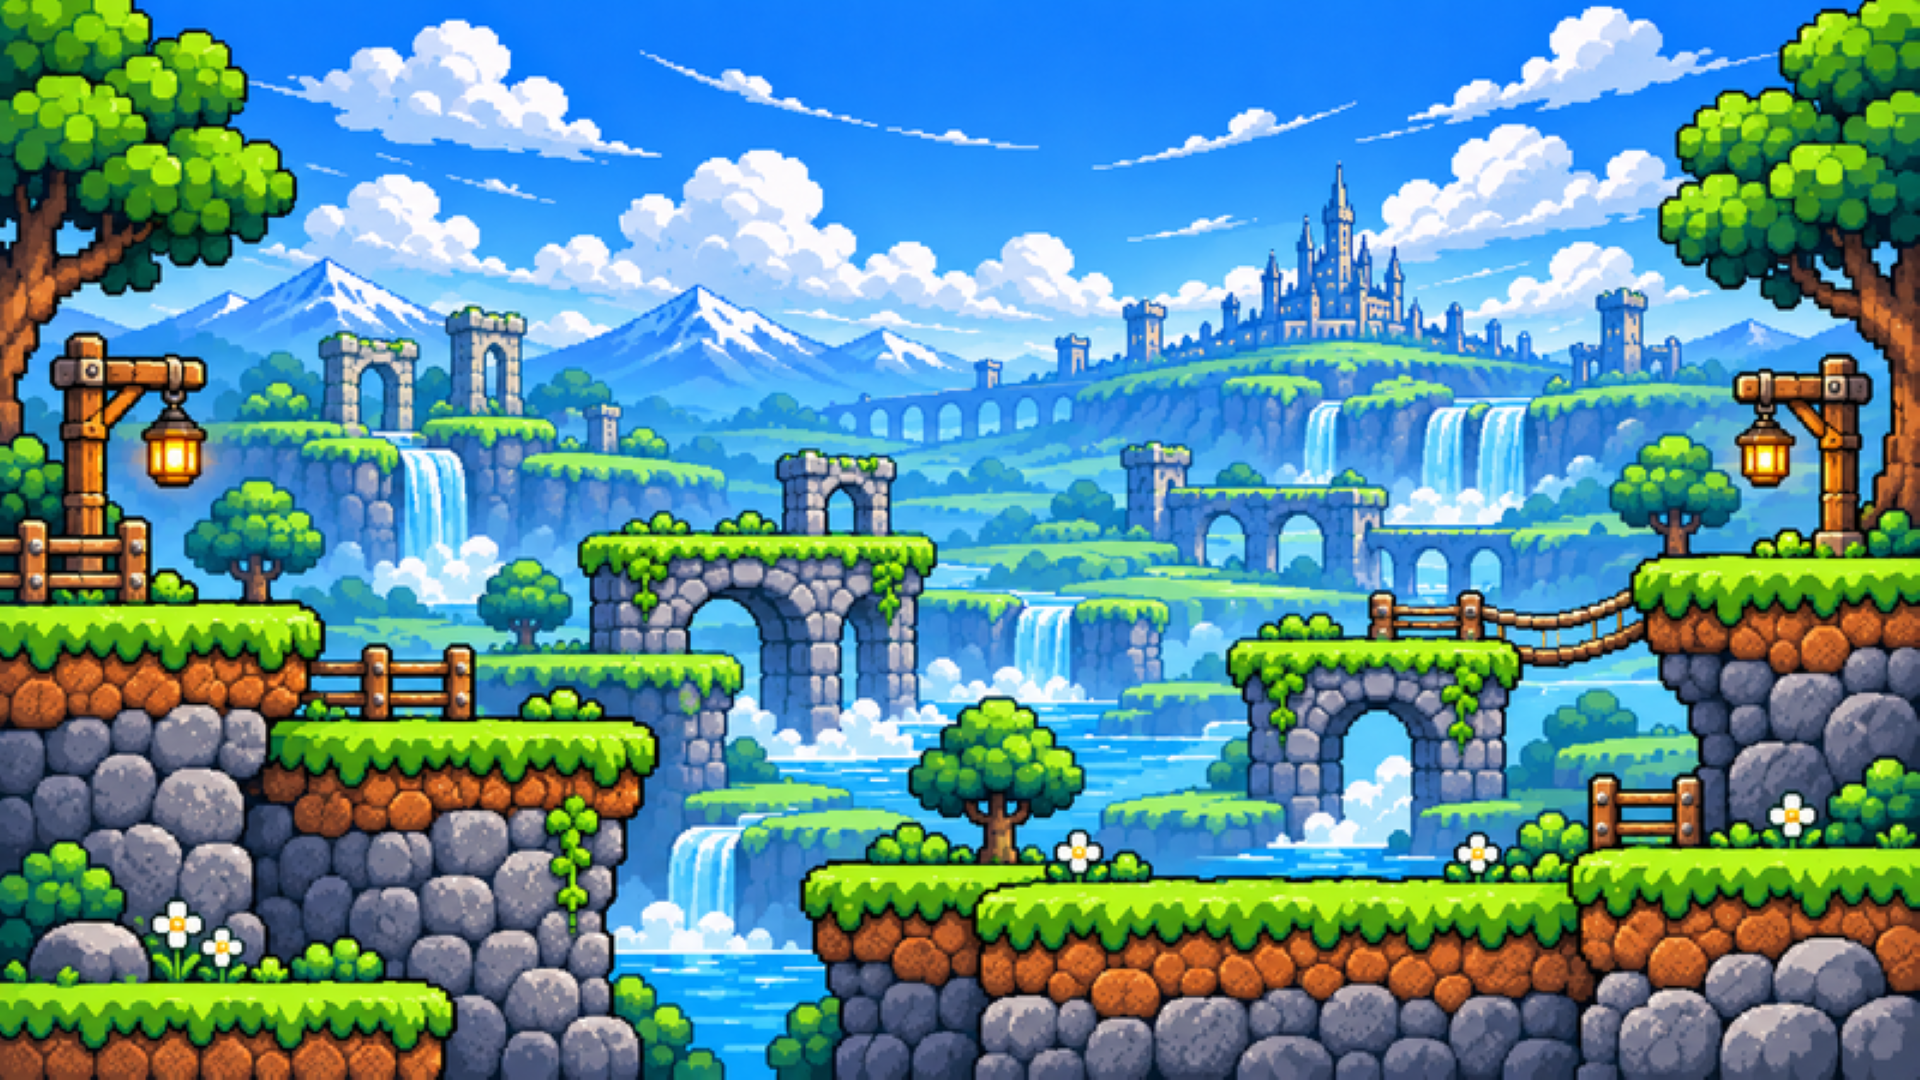
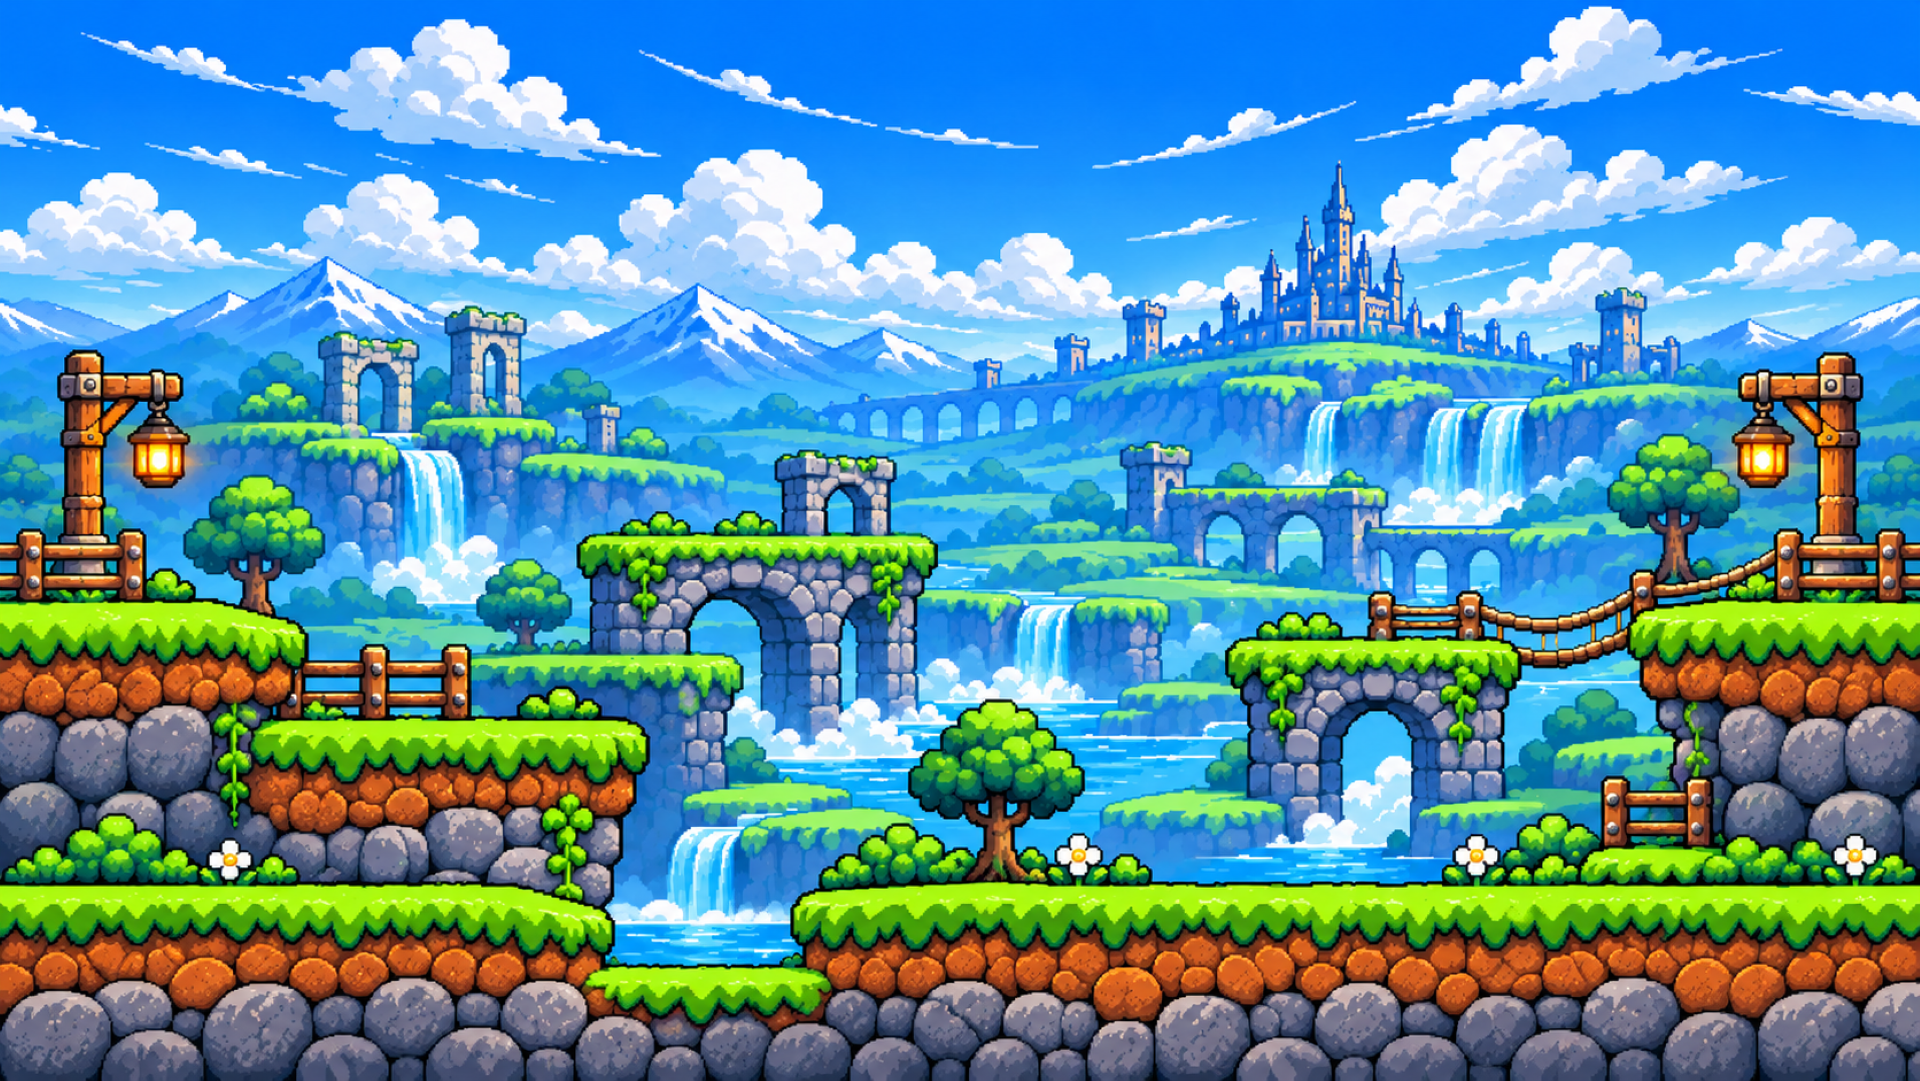
play画面ほとんど完成

diff --git a/末永雄大_集大成課題/Project1/Source/Main.cpp b/末永雄大_集大成課題/Project1/Source/Main.cpp
@@ -16,6 +16,8 @@ int WINAPI WinMain(_In_ HINSTANCE hInstance, _In_opt_ HINSTANCE hPrevInstamce, _
 	SetOutApplicationLogValidFlag(FALSE);	//Log.txtを出力しない
 	//ChangeWindowMode(TRUE);					//ウィンドウモードに設定（完成時消す）
 
+	SetGraphMode(SCREEN_WIDTH, SCREEN_HEIGHT, SCREEN_COLOR_DEPTH);
+
 	if (DxLib_Init() == -1)  //DXライブラリ初期化処理
 	{
 		return -1;           //エラーが起きたら直ちに終了

diff --git a/末永雄大_集大成課題/Project1/Source/Camera/Camara.cpp b/末永雄大_集大成課題/Project1/Source/Camera/Camara.cpp
@@ -2,6 +2,8 @@
 #include "Camera.h"
 #include "../Input/Input.h"
 #include "../Player/Player.h"
+#include "../GameSetting/GameSetting.h"
+#include "../Map/MapParameter.h"
 
 #define DEBUG_CAMERA_SPEED (8.0f)
 #define CAMERA_SCROLL_START_X (200.0f)
@@ -10,7 +12,7 @@ CameraData g_CameraData = { 0 };
 
 void InitCamera()
 {
-
+	g_CameraData.pos.y = MAP_CHIP_Y_NUM * MAP_CHIP_HEIGHT - SCREEN_HEIGHT;
 }
 
 void StepCamera()
